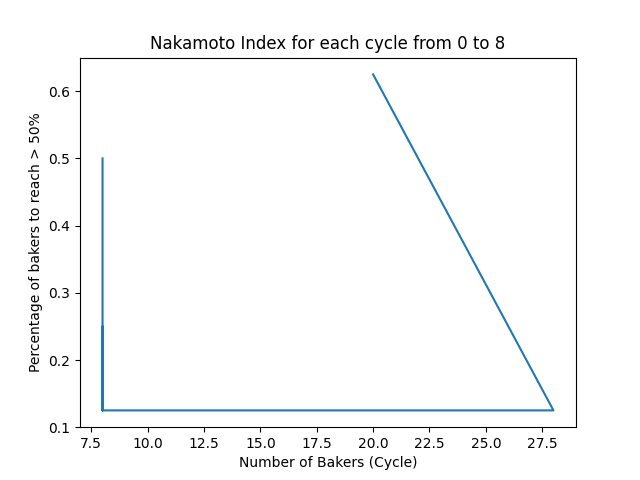
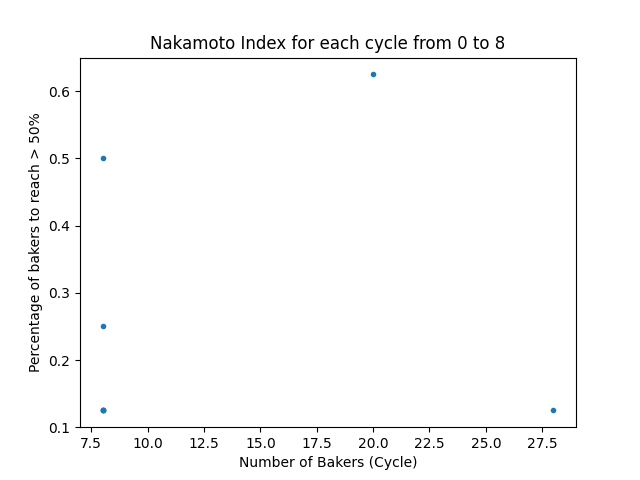
Add nakamoto index num bakers plots

diff --git a/tezos_analysis.py b/tezos_analysis.py
@@ -794,7 +794,6 @@ def plot_nakamoto_index(start, end):
     have more than 50% of the stake, this can fluctuate, but if it has a general tendency to go down, then it gets
     unfair as we have a few very big players """
     x_data = list((range(start, end)))
-    # TODO: fix this compute method -> get_tota_rewards_per_cycle not defined
     y_data = compute_nakamoto_index(start, end)
     plt.plot(x_data, y_data)
     plt.xlabel('Cycle')
@@ -804,14 +803,10 @@ def plot_nakamoto_index(start, end):
     plt.close()
 
 
-# TODO: check this -> Do we need sorting?
 def plot_nakamoto_index_num_bakers(start, end):
     """Plots nakamoto index on y axis and num_bakers (in each cycle) on x axis"""
     x_data = get_num_bakers_income_table_per_cycle_list(start, end)  # get number of bakers in each cycle
     y_data = compute_nakamoto_index(start, end)
-    nakamoto_num_bakers = dict(zip(x_data, y_data))
-    # TODO: sort this dict ascending and then take the x and y value again separate and plot
-    # TODO: make dicts of the x and y data and sort the x_data ascending and then have the corresponding y_data
     plt.plot(x_data, y_data, '.')
     plt.xlabel('Number of Bakers (Cycle)')
     plt.ylabel('Percentage of bakers to reach > 50%')
@@ -956,7 +951,7 @@ if __name__ == '__main__':
 
     cycle_total_reward_dict, baker_initial_cycle_dict, baker_initial_reward_dict, cycle_list_of_active_bakers_dict = get_bakers_initial_values_fairness()
 
-    plot_nakamoto_index_num_bakers(0, 8)
+    plot_nakamoto_index_num_bakers(0, 398)
 
     exp_fairness_list = compute_expectational_fairness_all_cycles(cycle_total_reward_dict, baker_initial_cycle_dict,
                                                                   baker_initial_reward_dict,
@@ -1019,10 +1014,9 @@ if __name__ == '__main__':
     plot_nakamoto_index(0, 398)
     plot_nakamoto_index(0, 8)
 
-    # TODO: 2) Compute Nakamoto index with num bakers in network on x axis
     # Nakamoto index with num bakers in network on x axis
-    # plot_nakamoto_index_num_bakers(0, 8)
-    # plot_nakamoto_index_num_bakers(0,398)
+    plot_nakamoto_index_num_bakers(0, 8)
+    plot_nakamoto_index_num_bakers(0, 398)
 
     # Close connection
     con.close()
